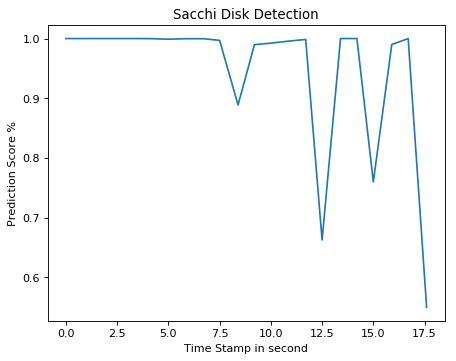
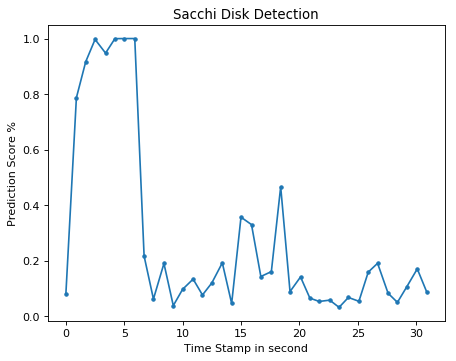
updated source code to save graph

diff --git a/cloudmesh/secchi/tensorflow/predict.py b/cloudmesh/secchi/tensorflow/predict.py
@@ -145,6 +145,9 @@ class Predict:
                 line_thickness=8,
                 min_score_thresh=0.60)
 
+            self.overlay_text(str(f"file:{self.VIDEO_NAME}"), frame, (1600, 950), 1)
+            self.overlay_text(str(f"time: {round(time_stamp/1000,2)}s"),frame,(1600,1000),1)
+            #cv2.putText(frame,str(f"TimeStamp: {round(time_stamp/1000,2)}s"),(1600,1000),cv2.FONT_HERSHEY_PLAIN,1,(0,140,255),3)
             resize = cv2.resize(frame, None, fx=self.scaling_factorx, fy=self.scaling_factory, interpolation=cv2.INTER_AREA)
             # All the results have been drawn on the frame, so it's time to display it.
             cv2.imshow('Object detector', resize)
@@ -156,7 +159,10 @@ class Predict:
             # Press 'q' to quit
             if cv2.waitKey(1) == ord('q'):
                 break
-
+            if video.get(cv2.CAP_PROP_POS_FRAMES) == video.get(cv2.CAP_PROP_FRAME_COUNT):
+                # If the number of captured frames is equal to the total number of frames,
+                # we stop
+                break
         # Clean up
         # plt.plot(boxes,scores)
         # print("SCORES LIST: ",self.SCORES)
@@ -175,15 +181,36 @@ class Predict:
 
 
         fig, ax = plt.subplots()
-        plt.plot(self.TIME_STAMP[::25], self.SCORES[::25])
+        plt.plot(self.TIME_STAMP[::25], self.SCORES[::25],marker=".")
         ax.set(title='Sacchi Disk Detection', xlabel='Time Stamp in second', ylabel='Prediction Score %')
+        if os.path.isfile("sacchi.png"):
+            print("File Exists: Deleting....")
+            os.remove("sacchi.png")
+            print(os.path.isfile("sacchi.png"))
         fig.savefig('sacchi.png', transparent=False, dpi=80, bbox_inches="tight")
+        #     delete file
+        #     dave file
         print("File Saved")
+        plt.close()
         #plt.show()
 
+    def overlay_text(self,txt, img, ll, fscale=1):
+        """Use OpenCV to overlay text"""
+        font = cv2.FONT_HERSHEY_DUPLEX
+        bottomLeftCornerOfText = ll
+        fontScale = fscale
+        fontColor = (0, 150, 255)  # (0,140,255) # BGR
+        lineType = 2
+
+        cv2.putText(img, txt,
+                    bottomLeftCornerOfText,
+                    font,
+                    fontScale,
+                    fontColor,
+                    lineType)
 
 if __name__=="__main__":
     print("predict.py")
-    p = Predict('Yi-Site1.mp4')
+    p = Predict('YDXJ0042.mp4')
     p.run()
     p.plot()
